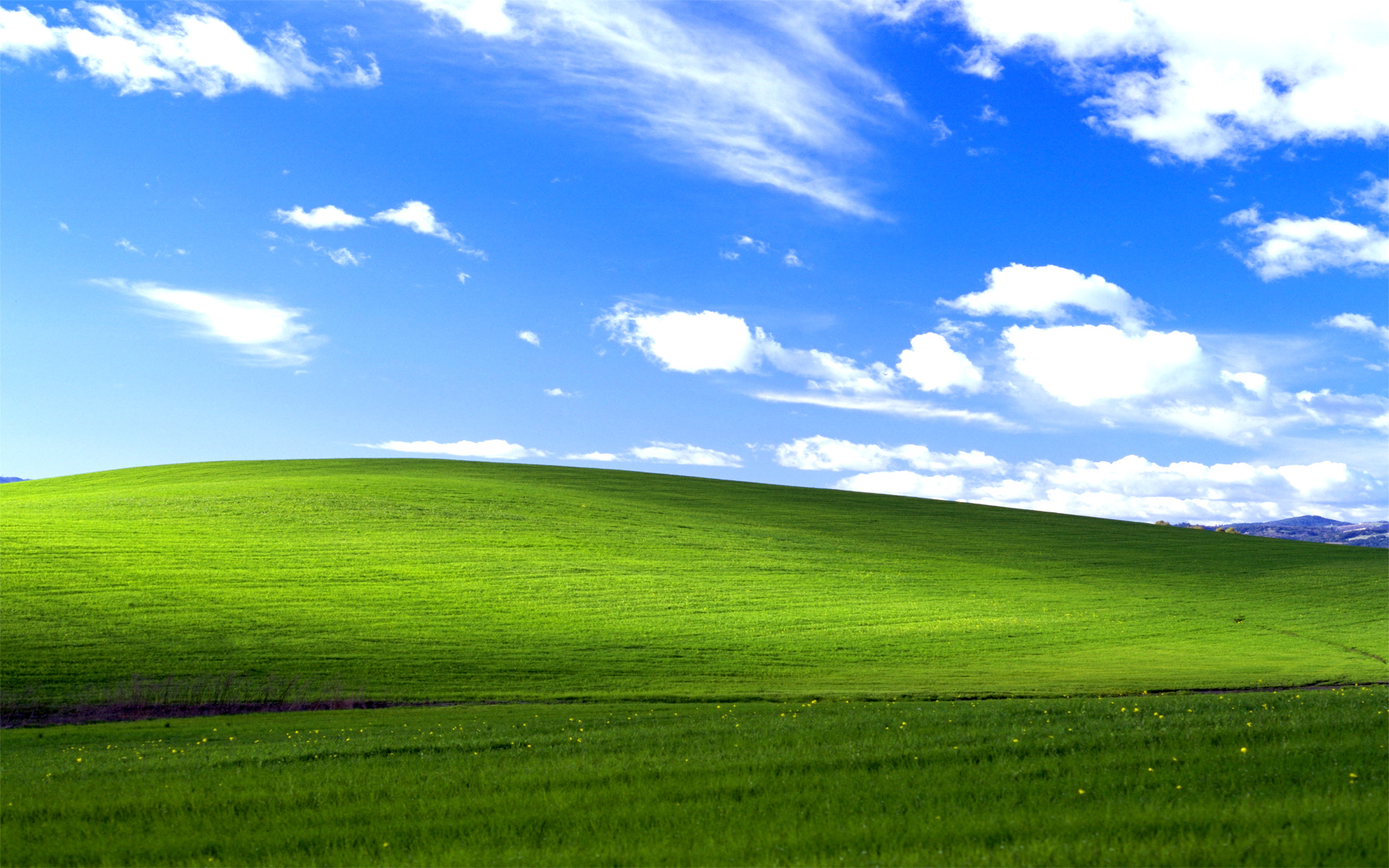
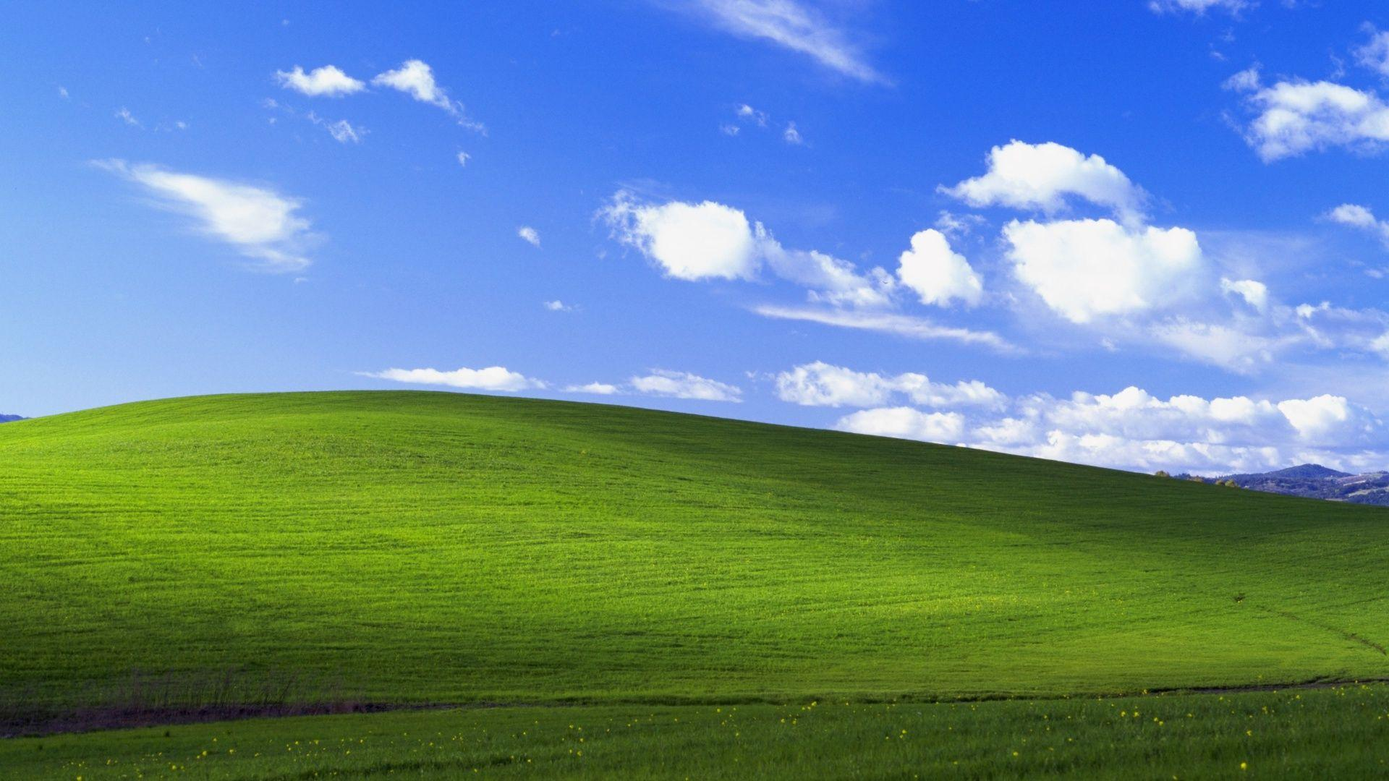
Wallpaper

diff --git a/Stylesheet/home.css b/Stylesheet/home.css
@@ -50,6 +50,9 @@ span{
     left: 0;
     width: 100%;
     z-index: -1;
+    background-image: url("../public/images/background.jpg");
+    background-size: cover;
+
 }
 
 .icon {
